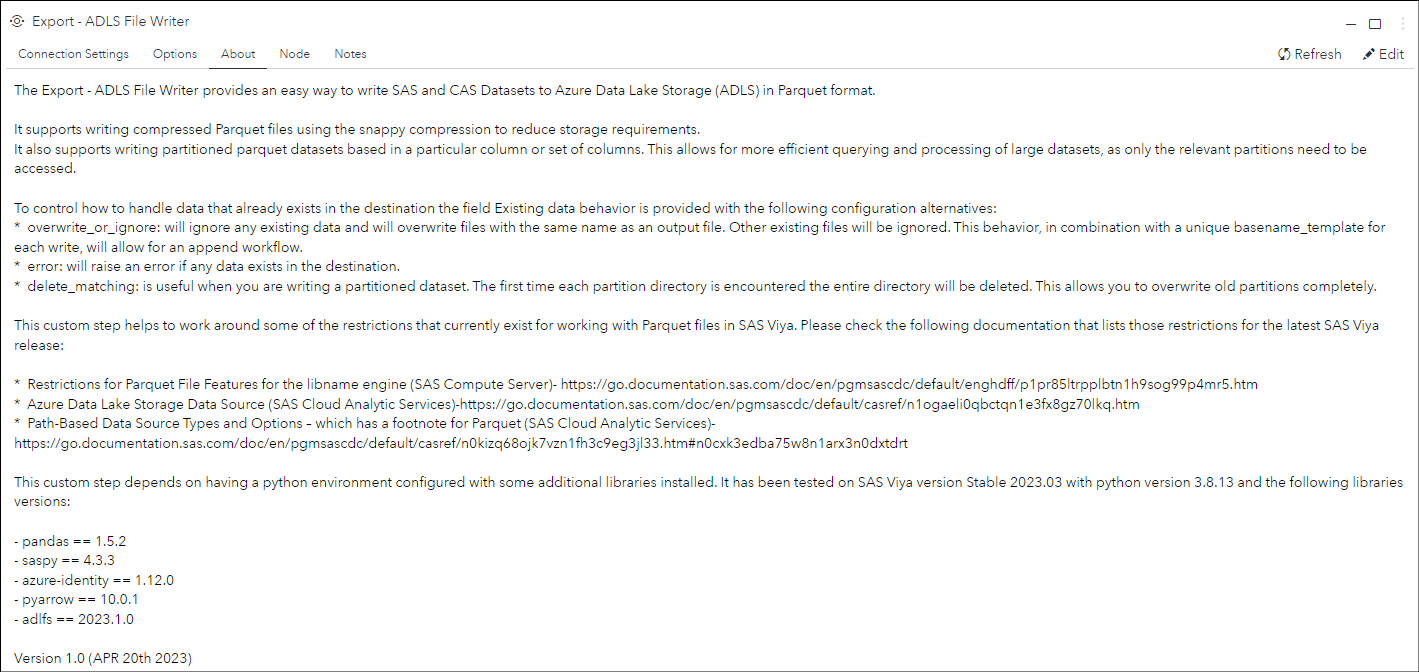
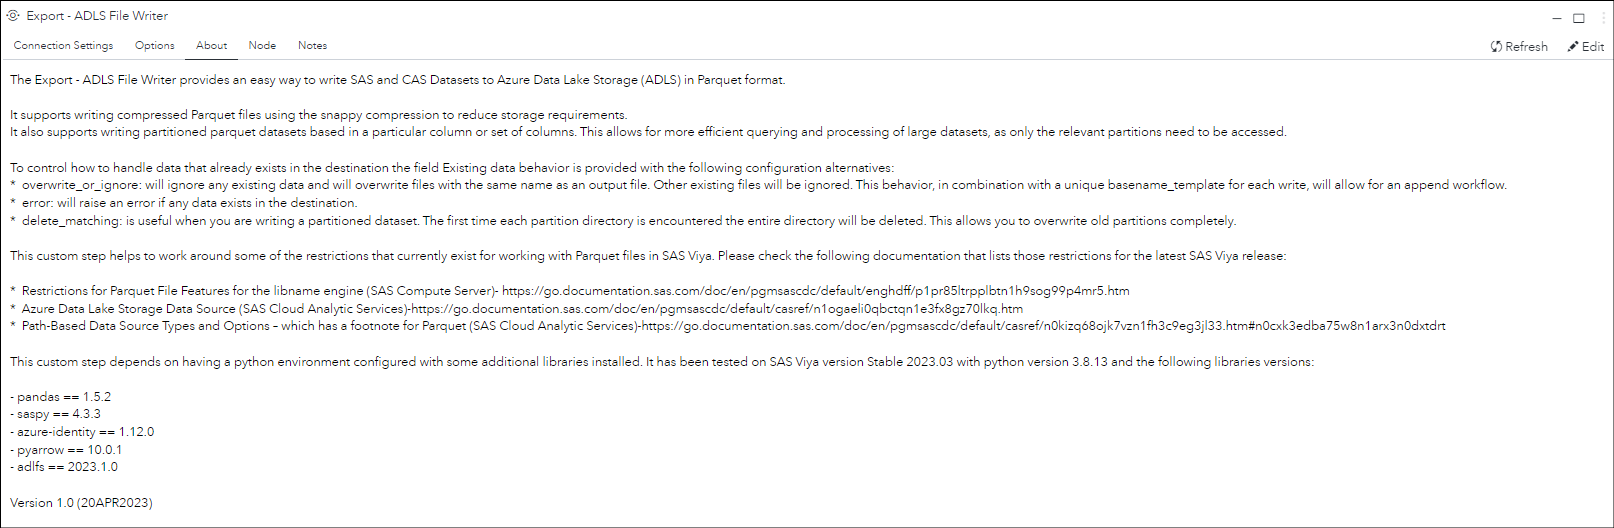
Change Log: - Fixed date format from Readme and About Tab in ADLSFileReader and ADLSFileWriter

Changed region(s): [[0.0, 0.303, 0.9922, 1.0], [0.0, 0.0, 1.0, 0.2727]]

diff --git a/Import - ADLS File Reader/README.md b/Import - ADLS File Reader/README.md
@@ -14,8 +14,6 @@ This custom step helps to work around some of the restrictions that currently ex
  - [Azure Data Lake Storage Data Source](https://go.documentation.sas.com/doc/en/pgmsascdc/default/casref/n1ogaeli0qbctqn1e3fx8gz70lkq.htm) (SAS Cloud Analytic Services)
  - [Path-Based Data Source Types and Options](https://go.documentation.sas.com/doc/en/pgmsascdc/default/casref/n0kizq68ojk7vzn1fh3c9eg3jl33.htm#n0cxk3edba75w8n1arx3n0dxtdrt) – which has a footnote for Parquet (SAS Cloud Analytic Services)
 
-Version 2.0 (APR 20th 2023)
-
 ## User Interface
 
 * ### Options tab ###
@@ -56,10 +54,10 @@ Tested on Viya version Stable 2023.03 with python environment version 3.8.13 and
 
 ## Change Log
 
-* Version 2.0 (APR2023) 
+* Version 2.0 (20APR2023) 
     * Added support for reading Delta Lake file format 
     * Removed pyarrowfs-adlgen2 python dependency 
     * Added adlfs python library as filesystem library implementation to access ADLS
     * Some code refactoring focusing on a object-oriented implementation for ADLSFileReader 
-* Version 1.0 (FEB2023)
+* Version 1.0 (02FEB2023)
     * Initial version

diff --git a/Export - ADLS File Writer/README.md b/Export - ADLS File Writer/README.md
@@ -17,8 +17,6 @@ This custom step helps to work around some of the restrictions that currently ex
  - [Azure Data Lake Storage Data Source](https://go.documentation.sas.com/doc/en/pgmsascdc/default/casref/n1ogaeli0qbctqn1e3fx8gz70lkq.htm) (SAS Cloud Analytic Services)
  - [Path-Based Data Source Types and Options](https://go.documentation.sas.com/doc/en/pgmsascdc/default/casref/n0kizq68ojk7vzn1fh3c9eg3jl33.htm#n0cxk3edba75w8n1arx3n0dxtdrt) – which has a footnote for Parquet (SAS Cloud Analytic Services)
 
-Version 1.0 (APR 20th 2023)
-
 ## User Interface
 
 * ### Connection settings tab ###
@@ -59,5 +57,5 @@ Tested on Viya version Stable 2023.03 with python environment version 3.8.13 and
 
 ## Change Log
 
-* Version 1.0 (APR2023)
+* Version 1.0 (20APR2023)
     * Initial version
